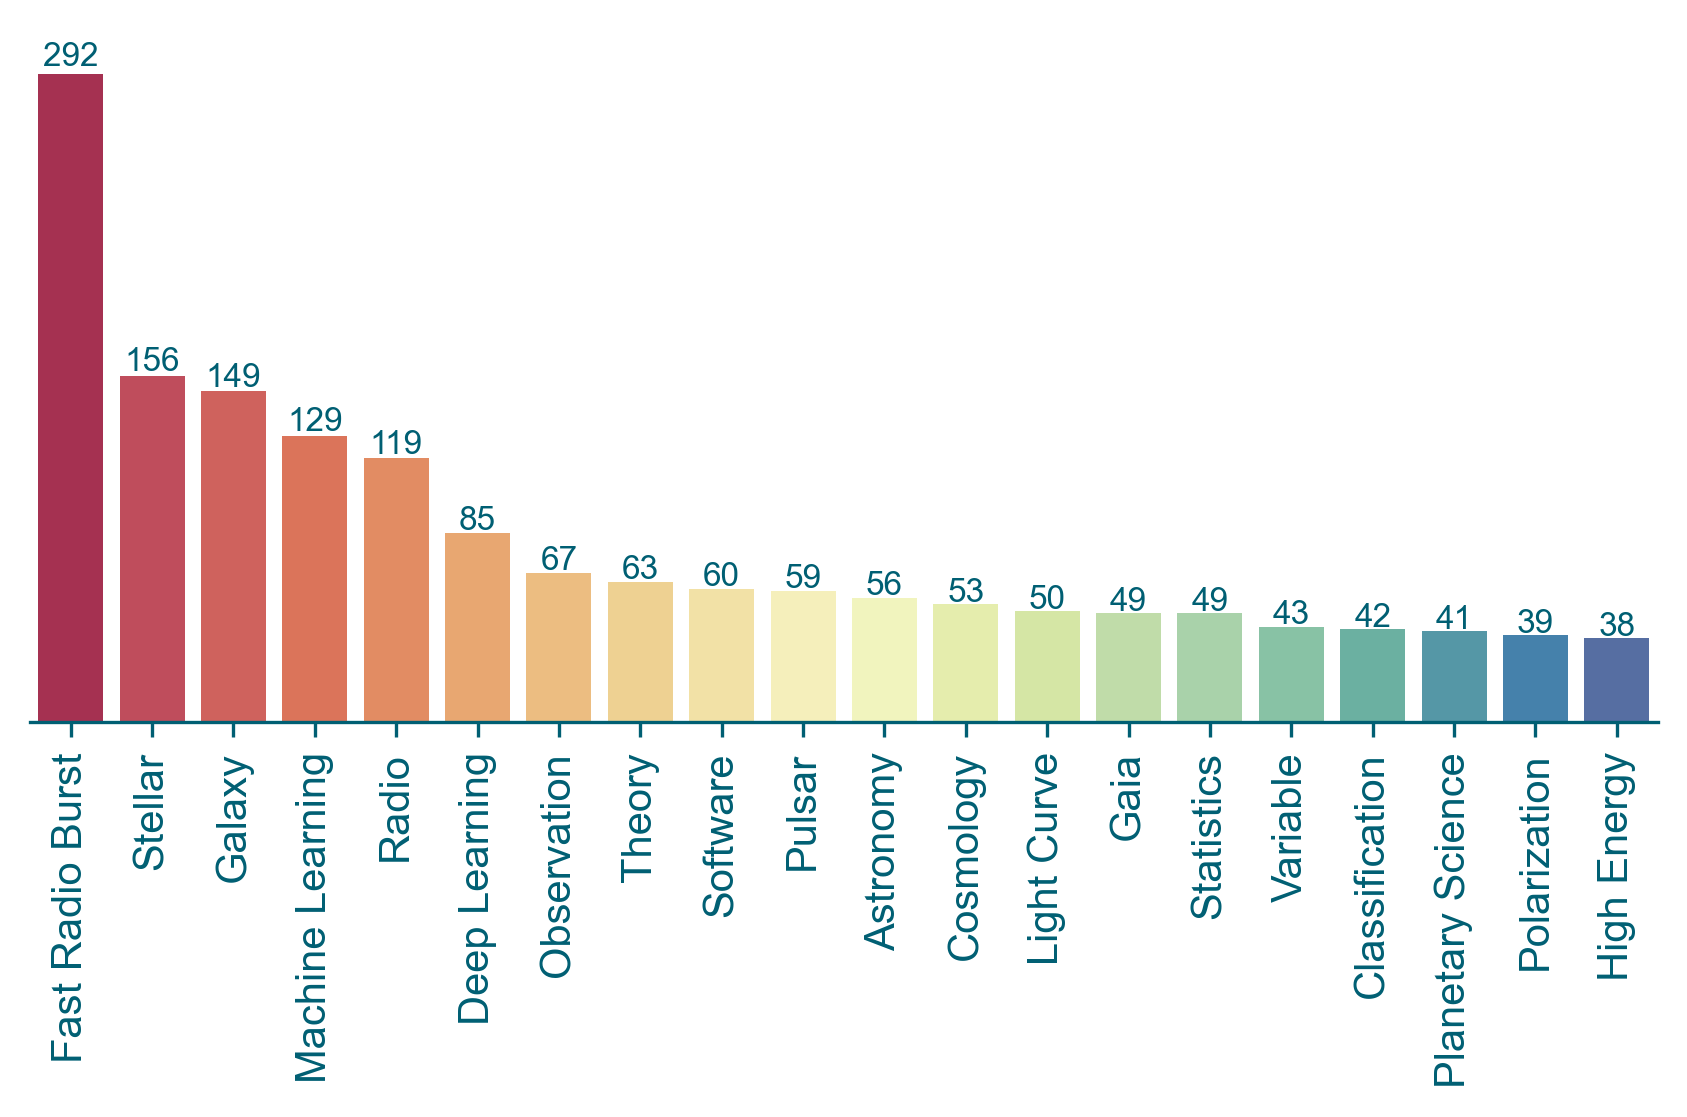
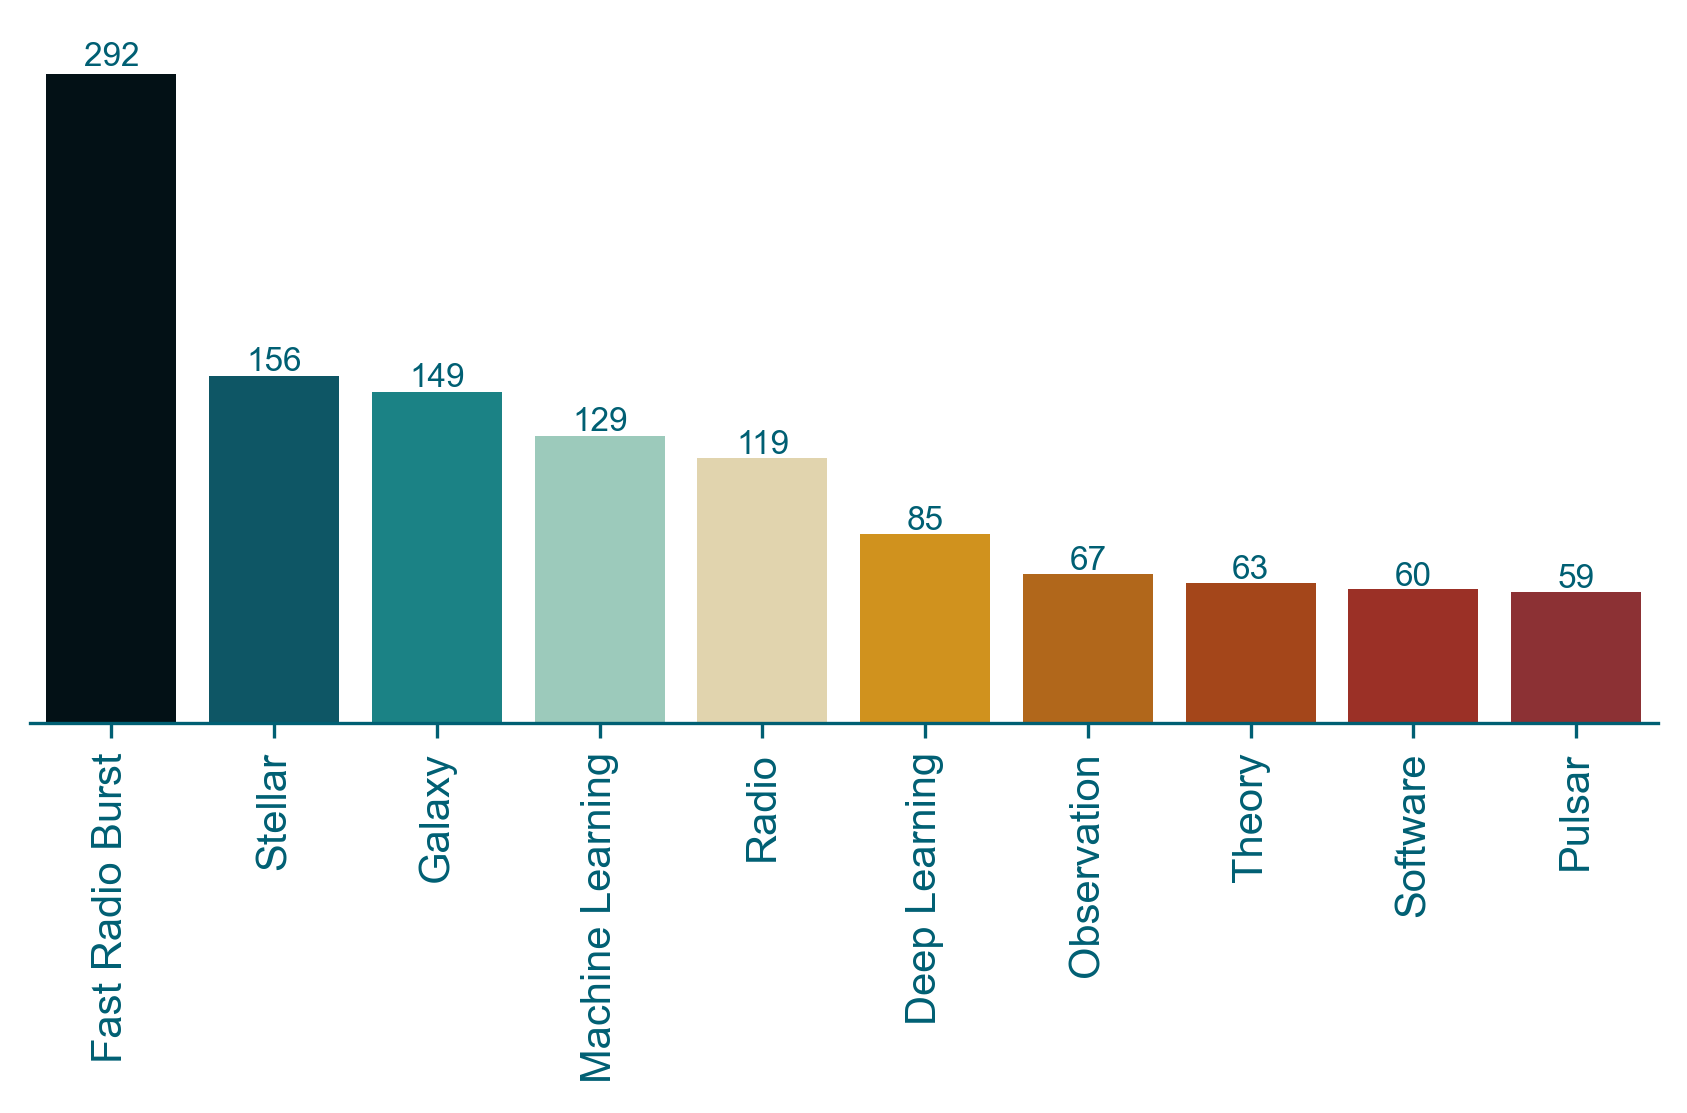
update keycount

Changed region(s): [[0.0, 0.0305, 0.9864, 0.9775], [0.1541, 0.8248, 0.2158, 0.9775]]

diff --git a/Status/status.py b/Status/status.py
@@ -243,12 +243,12 @@ def show_values(axs, orient="v", space=.01):
         _single(axs)
 
 def plot_word_max(counter):
-    words_max = counter.most_common(20)
+    words_max = counter.most_common(10)
     words_max = pd.DataFrame({'word': [i[0] for i in words_max], 'count': [i[1] for i in words_max]})
     words_max.loc[:, 'count'] = words_max.loc[:, 'count'].astype(np.int64)
     plt.figure(figsize=(7, 3))
     ax = plt.subplot(111)
-    p = sns.barplot(words_max, x='word', y='count', hue='word', palette='Spectral')
+    p = sns.barplot(words_max, x='word', y='count', hue='word', palette=color_list)
     show_values(p)
     # font = FontProperties(fname=fname, size=9)
     plt.xticks(rotation=90)
